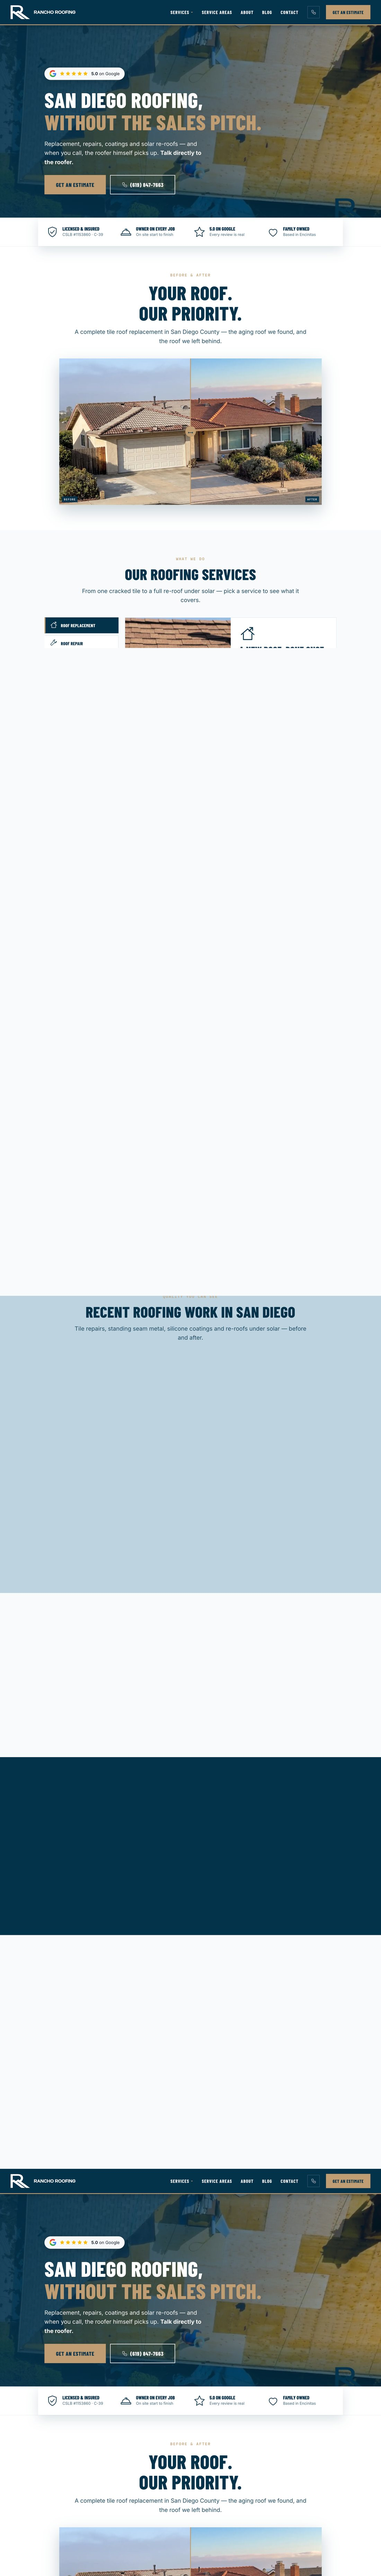
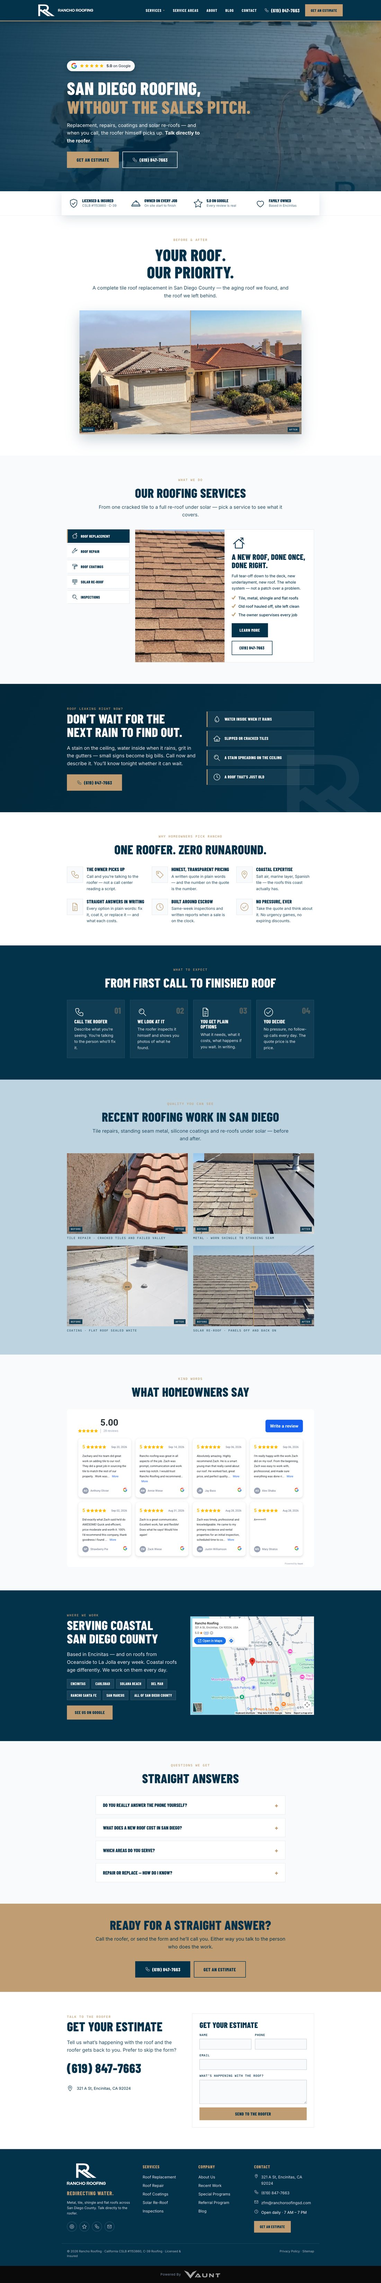
Brand guides as single scrollable doc + Brikho guide + fix Rancho image
- Lightbox: a gallery `doc` is one rail thumbnail whose pages stack in
  the scrollable main view (no more 10 separate rail thumbnails).
- Convert Benchmark, Commerce, Rancho brand guides to docs (website
  lightboxes + standalone branding cards).
- Add Brikho Law brand guide (10 pages) as a Branding entry.
- Replace the Rancho website capture (had blank lazy-load gaps) with the
  clean full-page source.

diff --git a/src/data/portfolio.ts b/src/data/portfolio.ts
@@ -12,6 +12,11 @@ export interface PortfolioGallery {
   shots?: string[]
   /** Captions shown on the lightbox rail, in order: hero first, then shots. */
   labels?: string[]
+  /**
+   * Multi-page documents (e.g. brand guides). Each doc is ONE thumbnail on the
+   * lightbox rail; selecting it stacks all pages in the scrollable main view.
+   */
+  docs?: { label: string; pages: string[]; thumb?: string }[]
 }
 
 export interface PortfolioItem {
@@ -33,9 +38,9 @@ export interface PortfolioItem {
 }
 
 export const portfolioItems: PortfolioItem[] = [
-  { id: 'commerce-collision-web', title: 'Commerce Collision', category: 'Websites', note: 'Commerce Township collision repair', blurb: 'Conversion-focused site for a collision, auto-body, and paint shop.', tags: ['Website', 'Branding', 'Automotive'], hue: 4, featured: true, thumbnail: '/portfolio/commerce-collision-web/thumb.jpg', gallery: { hero: '/portfolio/commerce-collision-web/full.jpg', shots: ['/portfolio/commerce-collision-brand/guide-01.jpg', '/portfolio/commerce-collision-brand/guide-02.jpg', '/portfolio/commerce-collision-brand/guide-03.jpg', '/portfolio/commerce-collision-brand/guide-04.jpg', '/portfolio/commerce-collision-brand/guide-05.jpg', '/portfolio/commerce-collision-brand/guide-06.jpg', '/portfolio/commerce-collision-brand/guide-07.jpg'], labels: ['Website', 'Brand Guide', 'Brand Guide', 'Brand Guide', 'Brand Guide', 'Brand Guide', 'Brand Guide', 'Brand Guide'] } },
-  { id: 'rancho-roofing-web', title: 'Rancho Roofing', category: 'Websites', note: 'San Diego roofing, without the sales pitch.', blurb: 'Trust-first site for a San Diego County residential roofing company.', tags: ['Website', 'Branding', 'Roofing'], hue: 210, featured: true, thumbnail: '/portfolio/rancho-roofing-web/thumb.jpg', gallery: { hero: '/portfolio/rancho-roofing-web/full.jpg', shots: ['/portfolio/rancho-roofing-brand/guide-01.jpg', '/portfolio/rancho-roofing-brand/guide-02.jpg', '/portfolio/rancho-roofing-brand/guide-03.jpg', '/portfolio/rancho-roofing-brand/guide-04.jpg', '/portfolio/rancho-roofing-brand/guide-05.jpg', '/portfolio/rancho-roofing-brand/guide-06.jpg', '/portfolio/rancho-roofing-brand/guide-07.jpg', '/portfolio/rancho-roofing-brand/guide-08.jpg', '/portfolio/rancho-roofing-brand/guide-09.jpg', '/portfolio/rancho-roofing-brand/guide-10.jpg'], labels: ['Website', 'Brand Guide', 'Brand Guide', 'Brand Guide', 'Brand Guide', 'Brand Guide', 'Brand Guide', 'Brand Guide', 'Brand Guide', 'Brand Guide', 'Brand Guide'] } },
-  { id: 'benchmark-web', title: 'Benchmark Wood Floors', category: 'Websites', note: 'Craftsmanship you can stand on.', blurb: 'Warm, high-craft site for a hardwood flooring installation and refinishing company.', tags: ['Website', 'Branding', 'Home Services'], hue: 32, featured: true, thumbnail: '/portfolio/benchmark-web/thumb.jpg', gallery: { hero: '/portfolio/benchmark-web/full.jpg', shots: ['/portfolio/benchmark-brand/guide-01.jpg', '/portfolio/benchmark-brand/guide-02.jpg', '/portfolio/benchmark-brand/guide-03.jpg', '/portfolio/benchmark-brand/guide-04.jpg', '/portfolio/benchmark-brand/guide-05.jpg', '/portfolio/benchmark-brand/guide-06.jpg', '/portfolio/benchmark-brand/guide-07.jpg', '/portfolio/benchmark-brand/guide-08.jpg', '/portfolio/benchmark-brand/guide-09.jpg', '/portfolio/benchmark-brand/guide-10.jpg'], labels: ['Website', 'Brand Guide', 'Brand Guide', 'Brand Guide', 'Brand Guide', 'Brand Guide', 'Brand Guide', 'Brand Guide', 'Brand Guide', 'Brand Guide', 'Brand Guide'] } },
+  { id: 'commerce-collision-web', title: 'Commerce Collision', category: 'Websites', note: 'Commerce Township collision repair', blurb: 'Conversion-focused site for a collision, auto-body, and paint shop.', tags: ['Website', 'Branding', 'Automotive'], hue: 4, featured: true, thumbnail: '/portfolio/commerce-collision-web/thumb.jpg', gallery: { hero: '/portfolio/commerce-collision-web/full.jpg', labels: ['Website'], docs: [{ label: 'Brand Guide', pages: ['/portfolio/commerce-collision-brand/guide-01.jpg', '/portfolio/commerce-collision-brand/guide-02.jpg', '/portfolio/commerce-collision-brand/guide-03.jpg', '/portfolio/commerce-collision-brand/guide-04.jpg', '/portfolio/commerce-collision-brand/guide-05.jpg', '/portfolio/commerce-collision-brand/guide-06.jpg', '/portfolio/commerce-collision-brand/guide-07.jpg'] }] } },
+  { id: 'rancho-roofing-web', title: 'Rancho Roofing', category: 'Websites', note: 'San Diego roofing, without the sales pitch.', blurb: 'Trust-first site for a San Diego County residential roofing company.', tags: ['Website', 'Branding', 'Roofing'], hue: 210, featured: true, thumbnail: '/portfolio/rancho-roofing-web/thumb.jpg', gallery: { hero: '/portfolio/rancho-roofing-web/full.jpg', labels: ['Website'], docs: [{ label: 'Brand Guide', pages: ['/portfolio/rancho-roofing-brand/guide-01.jpg', '/portfolio/rancho-roofing-brand/guide-02.jpg', '/portfolio/rancho-roofing-brand/guide-03.jpg', '/portfolio/rancho-roofing-brand/guide-04.jpg', '/portfolio/rancho-roofing-brand/guide-05.jpg', '/portfolio/rancho-roofing-brand/guide-06.jpg', '/portfolio/rancho-roofing-brand/guide-07.jpg', '/portfolio/rancho-roofing-brand/guide-08.jpg', '/portfolio/rancho-roofing-brand/guide-09.jpg', '/portfolio/rancho-roofing-brand/guide-10.jpg'] }] } },
+  { id: 'benchmark-web', title: 'Benchmark Wood Floors', category: 'Websites', note: 'Craftsmanship you can stand on.', blurb: 'Warm, high-craft site for a hardwood flooring installation and refinishing company.', tags: ['Website', 'Branding', 'Home Services'], hue: 32, featured: true, thumbnail: '/portfolio/benchmark-web/thumb.jpg', gallery: { hero: '/portfolio/benchmark-web/full.jpg', labels: ['Website'], docs: [{ label: 'Brand Guide', pages: ['/portfolio/benchmark-brand/guide-01.jpg', '/portfolio/benchmark-brand/guide-02.jpg', '/portfolio/benchmark-brand/guide-03.jpg', '/portfolio/benchmark-brand/guide-04.jpg', '/portfolio/benchmark-brand/guide-05.jpg', '/portfolio/benchmark-brand/guide-06.jpg', '/portfolio/benchmark-brand/guide-07.jpg', '/portfolio/benchmark-brand/guide-08.jpg', '/portfolio/benchmark-brand/guide-09.jpg', '/portfolio/benchmark-brand/guide-10.jpg'] }] } },
   { id: 'reviveexperts-web', title: 'Revive Restoration', category: 'Websites', note: 'Water damage restoration in Oakland & Macomb County', blurb: 'A full rebuild for a family-owned restoration company — before and after.', tags: ['Website', 'Redesign', 'Restoration'], hue: 198, featured: true, thumbnail: '/portfolio/reviveexperts-web/thumb.jpg', gallery: { hero: '/portfolio/reviveexperts-web/full.jpg', shots: ['/portfolio/reviveexperts-web/before.jpg'], labels: ['After', 'Before'] } },
   { id: 'matthews-auto-web', title: "Matthew's Stop & Look Auto Sales", category: 'Websites', note: 'Stop. Look. Drive home today.', blurb: 'Inventory-driven site with instant credit application for a Detroit used-car dealership.', tags: ['Website', 'Automotive'], hue: 4, featured: true, thumbnail: '/portfolio/matthews-auto-web/thumb.jpg', gallery: { hero: '/portfolio/matthews-auto-web/full.jpg' } },
   { id: 'sporeshield-web', title: 'Spore Shield', category: 'Websites', note: 'Michigan mold-testing experts', blurb: 'Trust-building site for a certified mold-inspection service.', tags: ['Website', 'Home Services'], hue: 140, featured: true, thumbnail: '/portfolio/sporeshield-web/thumb.jpg', gallery: { hero: '/portfolio/sporeshield-web/full.jpg' } },
@@ -76,9 +81,10 @@ export const portfolioItems: PortfolioItem[] = [
   { id: 'er-doc', title: 'ER Doc Urgent Care', category: 'Branding', note: 'Healthcare brand identity', blurb: 'A friendly heart-and-stethoscope identity for an urgent-care clinic, with a full brand color system.', tags: ['Branding', 'Healthcare'], hue: 350, featured: false, thumbnail: '/portfolio/er-doc/thumb.jpg', gallery: { hero: '/portfolio/er-doc/full.jpg' } },
   { id: 'wauxo', title: 'Wauxo', category: 'Branding', note: 'Tech brand mark', blurb: 'A sharp, modern monogram and logotype for a technology brand.', tags: ['Branding', 'Technology'], hue: 0, featured: false, gallery: { hero: '/portfolio/wauxo/full.jpg' } },
   { id: 'wireless-monkey', title: 'Wireless Monkey', category: 'Branding', note: '“Deals so good you’ll go bananas”', blurb: 'A playful mascot logo for a wireless and electronics retailer.', tags: ['Branding', 'Retail'], hue: 354, featured: false, gallery: { hero: '/portfolio/wireless-monkey/full.jpg' } },
-  { id: 'rancho-roofing-brand', title: 'Rancho Roofing', category: 'Branding', note: 'Brand guidelines', blurb: 'A full brand identity and guidelines for a San Diego roofing company.', tags: ['Branding', 'Roofing'], hue: 210, featured: false, thumbnail: '/portfolio/rancho-roofing-brand/thumb.jpg', gallery: { hero: '/portfolio/rancho-roofing-brand/guide-01.jpg', shots: ['/portfolio/rancho-roofing-brand/guide-02.jpg', '/portfolio/rancho-roofing-brand/guide-03.jpg', '/portfolio/rancho-roofing-brand/guide-04.jpg', '/portfolio/rancho-roofing-brand/guide-05.jpg', '/portfolio/rancho-roofing-brand/guide-06.jpg', '/portfolio/rancho-roofing-brand/guide-07.jpg', '/portfolio/rancho-roofing-brand/guide-08.jpg', '/portfolio/rancho-roofing-brand/guide-09.jpg', '/portfolio/rancho-roofing-brand/guide-10.jpg'] } },
-  { id: 'benchmark-brand', title: 'Benchmark Wood Floors', category: 'Branding', note: 'Brand guidelines', blurb: 'A full brand identity and guidelines for a hardwood flooring craftsman.', tags: ['Branding', 'Home Services'], hue: 32, featured: false, thumbnail: '/portfolio/benchmark-brand/logo-dark.jpg', gallery: { hero: '/portfolio/benchmark-brand/guide-01.jpg', shots: ['/portfolio/benchmark-brand/guide-02.jpg', '/portfolio/benchmark-brand/guide-03.jpg', '/portfolio/benchmark-brand/guide-04.jpg', '/portfolio/benchmark-brand/guide-05.jpg', '/portfolio/benchmark-brand/guide-06.jpg', '/portfolio/benchmark-brand/guide-07.jpg', '/portfolio/benchmark-brand/guide-08.jpg', '/portfolio/benchmark-brand/guide-09.jpg', '/portfolio/benchmark-brand/guide-10.jpg'] } },
-  { id: 'commerce-collision-brand', title: 'Commerce Collision', category: 'Branding', note: 'Brand guidelines', blurb: 'A full brand identity and guidelines for a Commerce Township collision shop.', tags: ['Branding', 'Automotive'], hue: 4, featured: false, thumbnail: '/portfolio/commerce-collision-brand/thumb.jpg', gallery: { hero: '/portfolio/commerce-collision-brand/guide-01.jpg', shots: ['/portfolio/commerce-collision-brand/guide-02.jpg', '/portfolio/commerce-collision-brand/guide-03.jpg', '/portfolio/commerce-collision-brand/guide-04.jpg', '/portfolio/commerce-collision-brand/guide-05.jpg', '/portfolio/commerce-collision-brand/guide-06.jpg', '/portfolio/commerce-collision-brand/guide-07.jpg'] } },
+  { id: 'brikho-law-brand', title: 'Brikho Law', category: 'Branding', note: 'Brand guidelines', blurb: 'A refined, classical identity and guidelines for a law firm.', tags: ['Branding', 'Legal'], hue: 265, featured: false, thumbnail: '/portfolio/brikho-law-brand/thumb.jpg', gallery: { docs: [{ label: 'Brand Guide', pages: ['/portfolio/brikho-law-brand/guide-01.jpg', '/portfolio/brikho-law-brand/guide-02.jpg', '/portfolio/brikho-law-brand/guide-03.jpg', '/portfolio/brikho-law-brand/guide-04.jpg', '/portfolio/brikho-law-brand/guide-05.jpg', '/portfolio/brikho-law-brand/guide-06.jpg', '/portfolio/brikho-law-brand/guide-07.jpg', '/portfolio/brikho-law-brand/guide-08.jpg', '/portfolio/brikho-law-brand/guide-09.jpg', '/portfolio/brikho-law-brand/guide-10.jpg'] }] } },
+  { id: 'rancho-roofing-brand', title: 'Rancho Roofing', category: 'Branding', note: 'Brand guidelines', blurb: 'A full brand identity and guidelines for a San Diego roofing company.', tags: ['Branding', 'Roofing'], hue: 210, featured: false, thumbnail: '/portfolio/rancho-roofing-brand/thumb.jpg', gallery: { docs: [{ label: 'Brand Guide', pages: ['/portfolio/rancho-roofing-brand/guide-01.jpg', '/portfolio/rancho-roofing-brand/guide-02.jpg', '/portfolio/rancho-roofing-brand/guide-03.jpg', '/portfolio/rancho-roofing-brand/guide-04.jpg', '/portfolio/rancho-roofing-brand/guide-05.jpg', '/portfolio/rancho-roofing-brand/guide-06.jpg', '/portfolio/rancho-roofing-brand/guide-07.jpg', '/portfolio/rancho-roofing-brand/guide-08.jpg', '/portfolio/rancho-roofing-brand/guide-09.jpg', '/portfolio/rancho-roofing-brand/guide-10.jpg'] }] } },
+  { id: 'benchmark-brand', title: 'Benchmark Wood Floors', category: 'Branding', note: 'Brand guidelines', blurb: 'A full brand identity and guidelines for a hardwood flooring craftsman.', tags: ['Branding', 'Home Services'], hue: 32, featured: false, thumbnail: '/portfolio/benchmark-brand/logo-dark.jpg', gallery: { docs: [{ label: 'Brand Guide', pages: ['/portfolio/benchmark-brand/guide-01.jpg', '/portfolio/benchmark-brand/guide-02.jpg', '/portfolio/benchmark-brand/guide-03.jpg', '/portfolio/benchmark-brand/guide-04.jpg', '/portfolio/benchmark-brand/guide-05.jpg', '/portfolio/benchmark-brand/guide-06.jpg', '/portfolio/benchmark-brand/guide-07.jpg', '/portfolio/benchmark-brand/guide-08.jpg', '/portfolio/benchmark-brand/guide-09.jpg', '/portfolio/benchmark-brand/guide-10.jpg'] }] } },
+  { id: 'commerce-collision-brand', title: 'Commerce Collision', category: 'Branding', note: 'Brand guidelines', blurb: 'A full brand identity and guidelines for a Commerce Township collision shop.', tags: ['Branding', 'Automotive'], hue: 4, featured: false, thumbnail: '/portfolio/commerce-collision-brand/thumb.jpg', gallery: { docs: [{ label: 'Brand Guide', pages: ['/portfolio/commerce-collision-brand/guide-01.jpg', '/portfolio/commerce-collision-brand/guide-02.jpg', '/portfolio/commerce-collision-brand/guide-03.jpg', '/portfolio/commerce-collision-brand/guide-04.jpg', '/portfolio/commerce-collision-brand/guide-05.jpg', '/portfolio/commerce-collision-brand/guide-06.jpg', '/portfolio/commerce-collision-brand/guide-07.jpg'] }] } },
   { id: 'coldshelf-brand', title: 'Cold Shelf', category: 'Branding', note: 'Logo design', blurb: 'A chrome, cold-chain logo for a commercial refrigeration brand.', tags: ['Branding', 'Industrial'], hue: 205, featured: false, gallery: { hero: '/portfolio/coldshelf-brand/full.png' } },
   { id: 'dreamz-restoration', title: 'Dreamz Restoration', category: 'Branding', note: '“Water · Fire · Mold”', blurb: 'A strong, service-forward identity for a property-restoration company.', tags: ['Branding', 'Restoration'], hue: 200, featured: false, gallery: { hero: '/portfolio/dreamz-restoration/full.png' } },
   { id: 'spyder-legs', title: 'Spyder Legs', category: 'Branding', note: 'Apparel / streetwear mark', blurb: 'An edgy, hand-lettered spider-web logo for a streetwear brand.', tags: ['Branding', 'Apparel'], hue: 0, featured: false, gallery: { hero: '/portfolio/spyder-legs/full.jpg' } },

diff --git a/src/components/ui/Lightbox.tsx b/src/components/ui/Lightbox.tsx
@@ -5,20 +5,26 @@ import type { PortfolioItem } from '../../data/portfolio'
 
 interface Shot {
   src?: string
+  /** Multi-page document (e.g. a brand guide) — all pages stacked in the main view. */
+  pages?: string[]
   label: string
   /** Rendered on the rail thumbnail — only set when the gallery supplies labels. */
   caption?: string
-  kind: 'long' | 'mobile' | 'wide'
+  kind: 'long' | 'mobile' | 'wide' | 'doc'
 }
 
 function buildShots(item: PortfolioItem): Shot[] {
   const g = item.gallery
-  if (g?.hero || g?.shots?.length) {
+  if (g?.hero || g?.shots?.length || g?.docs?.length) {
     const shots: Shot[] = []
     if (g.hero) shots.push({ src: g.hero, label: g.labels?.[0] ?? 'Homepage', caption: g.labels?.[0], kind: 'long' })
     g.shots?.forEach((s, i) => {
       const n = i + (g.hero ? 1 : 0)
       shots.push({ src: s, label: g.labels?.[n] ?? `View ${n + 1}`, caption: g.labels?.[n], kind: 'wide' })
+    })
+    // Multi-page documents collapse to a single rail thumbnail.
+    g.docs?.forEach((d) => {
+      shots.push({ pages: d.pages, src: d.thumb ?? d.pages[0], label: d.label, caption: d.label, kind: 'doc' })
     })
     return shots
   }
@@ -90,6 +96,15 @@ function Placeholder({ item, shot }: { item: PortfolioItem; shot: Shot }) {
 }
 
 function ShotView({ item, shot }: { item: PortfolioItem; shot: Shot }) {
+  if (shot.pages?.length) {
+    return (
+      <div>
+        {shot.pages.map((p, i) => (
+          <img key={i} src={p} alt={`${item.title} — ${shot.label} ${i + 1}`} loading={i === 0 ? undefined : 'lazy'} decoding="async" className="block w-full" />
+        ))}
+      </div>
+    )
+  }
   if (shot.src) {
     return <img src={shot.src} alt={`${item.title} — ${shot.label}`} decoding="async" className="block w-full" />
   }
